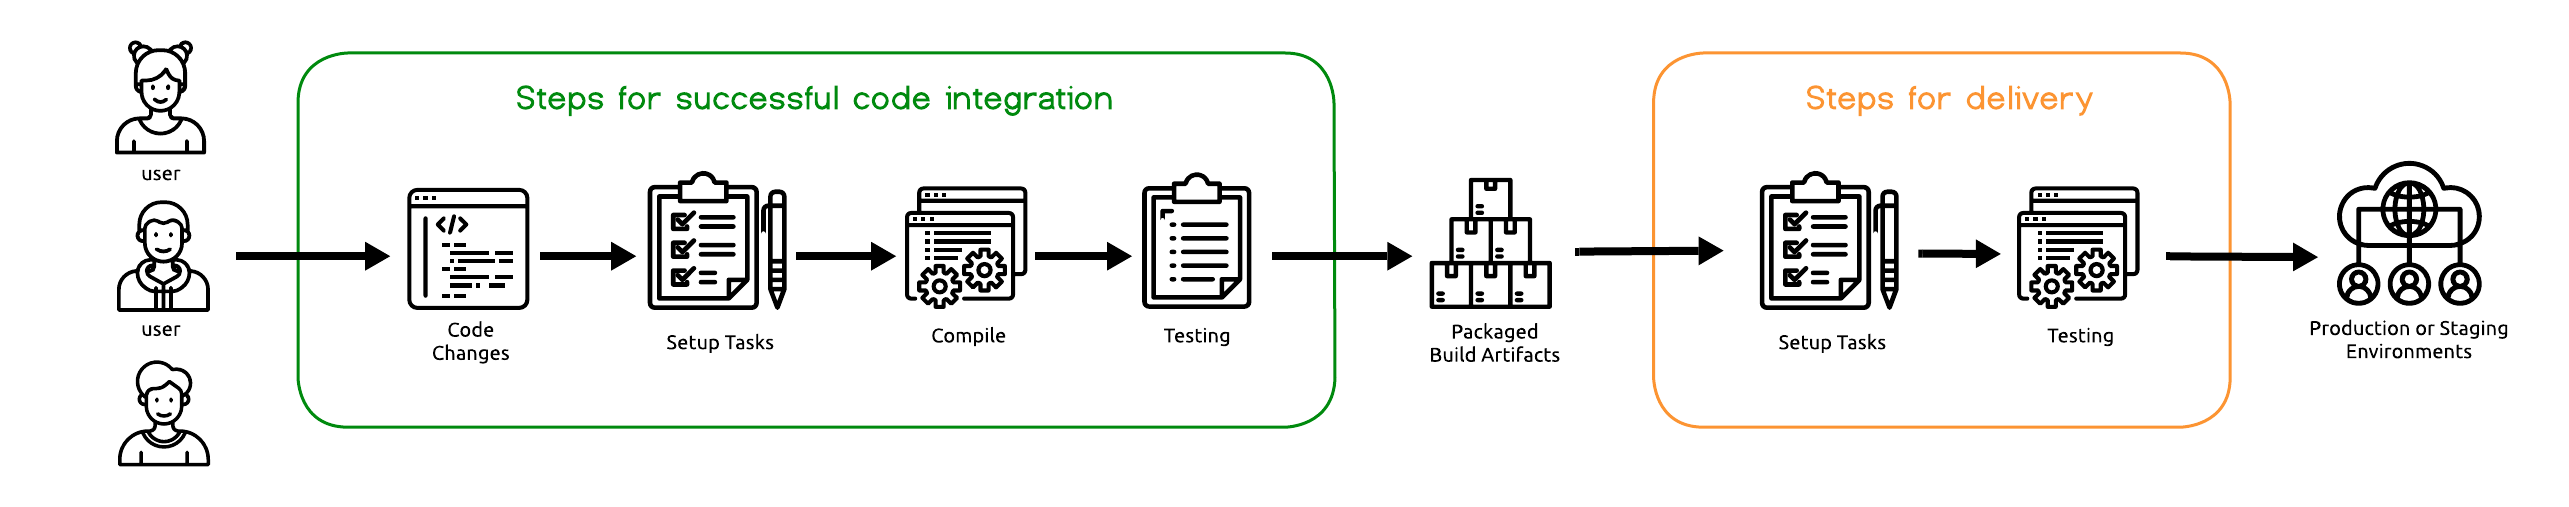
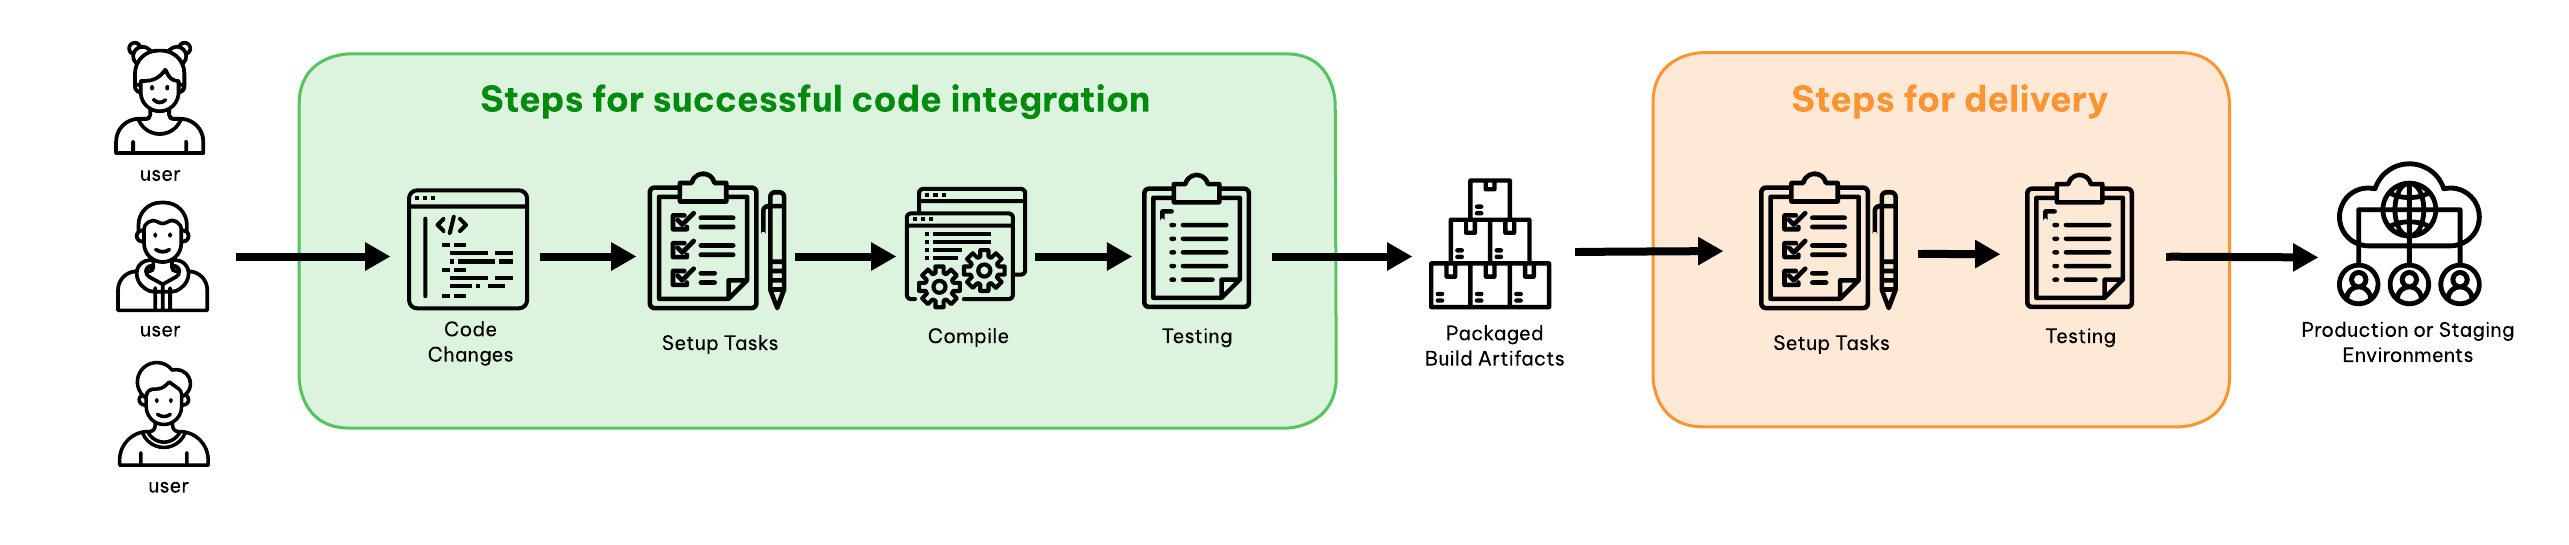
chore: add some more pngs and new holiness

diff --git a/src/components/pages/CaseStudyPage.tsx b/src/components/pages/CaseStudyPage.tsx
@@ -2,52 +2,46 @@ import { Link, useLocation } from "react-router-dom";
 import { useContext, useState, useEffect } from "react";
 import { CaseStudyContentContext } from "@/providers/CaseStudyContentProvider";
 import CaseStudySection from "./CaseStudySection";
-import {
-  Pagination,
-  PaginationContent,
-  PaginationItem,
-  PaginationLink,
-} from "@/components/ui/pagination";
-import {
-  Tooltip,
-  TooltipContent,
-  TooltipProvider,
-  TooltipTrigger,
-} from "@/components/ui/tooltip";
+// import {
+//   Pagination,
+//   PaginationContent,
+//   PaginationItem,
+//   PaginationLink,
+// } from "@/components/ui/pagination";
+// import {
+//   Tooltip,
+//   TooltipContent,
+//   TooltipProvider,
+//   TooltipTrigger,
+// } from "@/components/ui/tooltip";
 
 export default function CaseStudyPage() {
-  const { CaseStudy } = useContext(CaseStudyContentContext) ?? {};
-  const [activePage, setActivePage] = useState(CaseStudy?.headers[0]?.id ?? "");
-  const [activeSubSection, setActiveSubSection] = useState("");
-  console.log(CaseStudy, { activePage });
-  const location = useLocation();
+  const { headers, caseStudy } = useContext(CaseStudyContentContext) ?? {};
 
-  useEffect(() => {
-    const pathParts = location.pathname.split("#");
-    if (pathParts.length > 1) {
-      const sectionId = pathParts[1].split("-")[0];
-      setActivePage(sectionId);
-    }
-  }, [location]);
+  const content = caseStudy?.join("\n\n") ?? "";
+  console.log({ headers });
+  //   const location = useLocation();
+
+  //   useEffect(() => {
+  //     const pathParts = location.pathname.split("#");
+  //     if (pathParts.length > 1) {
+  //       const sectionId = pathParts[1].split("-")[0];
+  //       setActivePage(sectionId);
+  //     }
+  //   }, [location]);
 
   return (
     <>
       <div className="flex flex-row">
-       
         <main id="case-study-container" className="flex-1">
-          <CaseStudySection
-            markdown={
-              CaseStudy?.pages?.find(({ id }) => id === activePage)?.content ??
-              ""
-            }
-          />
+          <CaseStudySection markdown={content} />
         </main>
         <nav
           id="on-this-page"
           className="sticky top-[27vh] z-10 pl-5 pt-5 h-screen overflow-auto"
         >
           <h4 className="text-sm font-bold">On this page</h4>
-          <ul className="text-sm p-0">
+          {/* <ul className="text-sm p-0">
             {CaseStudy?.headers &&
               CaseStudy.headers
                 .find((header) => header.id === activePage)
@@ -66,10 +60,10 @@ export default function CaseStudyPage() {
                     </Link>
                   </li>
                 ))}
-          </ul>
+          </ul> */}
         </nav>
       </div>
-
+      {/* 
       <div>
         <TooltipProvider>
           <Pagination>
@@ -97,7 +91,7 @@ export default function CaseStudyPage() {
             </PaginationContent>
           </Pagination>
         </TooltipProvider>
-      </div>
+      </div> */}
     </>
   );
 }

diff --git a/src/providers/CaseStudyContentProvider.tsx b/src/providers/CaseStudyContentProvider.tsx
@@ -6,15 +6,22 @@ import implementation from "../assets/content/implementation.md";
 import futureWork from "../assets/content/future-work.md";
 import citations from "../assets/content/citations.md";
 
+interface Header {
+  level: string;
+  name: string;
+}
+
 interface CaseStudyContentContextProps {
-  CaseStudy: string[];
+  caseStudy: string[] | null;
+  headers: Header[] | null;
 }
 
 const CaseStudyContentContext =
   createContext<CaseStudyContentContextProps | null>(null);
 
 const CaseStudyContentProvider = ({ children }: { children: ReactNode }) => {
-  const [caseStudy, setCaseStudy] = useState<string[]>();
+  const [caseStudy, setCaseStudy] = useState<string[] | null>(null);
+  const [headers, setHeaders] = useState<Header[] | null>(null);
   const [loading, setLoading] = useState<boolean>(true);
   const [error, setError] = useState<string | null>(null);
 
@@ -29,9 +36,31 @@ const CaseStudyContentProvider = ({ children }: { children: ReactNode }) => {
           (await fetch(futureWork)).text(),
           (await fetch(citations)).text(),
         ]);
-        if (Array.isArray(content) && content.length) {
-          setCaseStudy(content);
-        }
+
+        const headers: Header[] = content.flatMap((md) => {
+          const headerRegex = /^(#{1,6})\s+(.*)$/gm;
+          const matches = [...md.matchAll(headerRegex)];
+          return matches.map((match) => ({
+            level: match[1].length.toString(),
+            name: match[2].trim().replace(/\*\*/g, ""),
+          }));
+        });
+
+        const groupedHeaders: Header[] = headers.reduce((acc, header) => {
+          if (header.level === "1") {
+            acc.push(header);
+          } else {
+            const lastHeader = acc[acc.length - 1];
+            if (!lastHeader.subheaders) {
+              lastHeader.subheaders = [];
+            }
+            lastHeader.subheaders.push(header);
+          }
+          return acc;
+        }, []);
+
+        setCaseStudy(content);
+        setHeaders(headers);
       } catch (err) {
         setError("Failed to load the case study markdown.");
         console.error(err);
@@ -52,11 +81,7 @@ const CaseStudyContentProvider = ({ children }: { children: ReactNode }) => {
   }
 
   return (
-    <CaseStudyContentContext.Provider
-      value={{
-        CaseStudy: caseStudy,
-      }}
-    >
+    <CaseStudyContentContext.Provider value={{ caseStudy, headers }}>
       {children}
     </CaseStudyContentContext.Provider>
   );

diff --git a/src/components/pages/HomePage.tsx b/src/components/pages/HomePage.tsx
@@ -1,6 +1,6 @@
 import { useNavigate } from "react-router-dom";
 import { Button } from "@/components/ui/button";
-import HisHoliness from "@/assets/harrier-bird-blue-shadow.png";
+import HisHoliness from "@/assets/harrier-big-blue-shadow.svg";
 import { FaBook } from "react-icons/fa";
 
 const HomePage = () => {
@@ -12,12 +12,12 @@ const HomePage = () => {
 
   return (
     <>
-      <div className="h-[36rem] flex flex-col text-center">
-        <h2 className="text-7xl font-semibold text-center mt-52 text-black italic">
+      <div className="h-[36rem] flex flex-col text-center bg-harrierblack">
+        <h2 className="text-7xl font-semibold text-center mt-48 text-white">
           Harrier
         </h2>
         <div>
-          <p className="text-2xl my-7">
+          <p className="text-2xl text-white my-7">
             an automated{" "}
             <span className="font-semibold text-secondary">
               self-hosted runner
@@ -25,7 +25,7 @@ const HomePage = () => {
             setup tool for{" "}
             <a
               href="https://github.com/features/actions"
-              className="underline hover:bg-senary"
+              className="hover:bg-teriary"
             >
               GitHub Actions
             </a>
@@ -33,20 +33,20 @@ const HomePage = () => {
           </p>
           <Button
             onClick={handleReadCaseStudyButtonClick}
-            variant="default"
-            className="inline-flex items-center space-x-2"
+            variant="test"
+            className="inline-flex items-center text-white p-6"
           >
             <span className="text-lg">Read Case Study</span>
-            <FaBook className="" />
+            {/* <FaBook className="" /> */}
           </Button>
         </div>
       </div>
       <div className="h-[36rem] flex flex-col text-center"></div>
-      <div className="h-[36rem] flex flex-col text-center bg-gradient-to-br from-primary to-secondary "></div>
+      {/* <div className="h-[36rem] flex flex-col text-center bg-gradient-to-br from-primary to-secondary "></div> */}
       <img
         src={HisHoliness}
         alt="Harrier Runner Logo PNG"
-        className="h-28 w-auto"
+        className="h-64 w-auto m-4"
       />
     </>
   );

diff --git a/src/components/ui/button.tsx b/src/components/ui/button.tsx
@@ -5,17 +5,19 @@ import { cva, type VariantProps } from "class-variance-authority";
 import { cn } from "@/lib/utils";
 
 const buttonVariants = cva(
-  "inline-flex items-center justify-center gap-2 whitespace-nowrap rounded-md text-sm font-medium ring-offset-background transition-colors focus-visible:outline-none focus-visible:ring-2 focus-visible:ring-ring focus-visible:ring-offset-2 disabled:pointer-events-none disabled:opacity-50 [&_svg]:pointer-events-none [&_svg]:size-4 [&_svg]:shrink-0",
+  "inline-flex items-center justify-center whitespace-nowrap rounded-md text-sm font-medium ring-offset-background transition-colors focus-visible:outline-none focus-visible:ring-2 focus-visible:ring-ring focus-visible:ring-offset-2 disabled:pointer-events-none disabled:opacity-50 [&_svg]:pointer-events-none [&_svg]:size-4 [&_svg]:shrink-0",
   {
     variants: {
       variant: {
-        default: "bg-primary text-primary-foreground hover:bg-primary/90",
+        default:
+          "bg-primary text-primary-foreground hover:bg-primary/90 border-2 border-primary",
         destructive:
           "bg-destructive text-destructive-foreground hover:bg-destructive/90",
         outline:
           "border border-input bg-background hover:bg-accent hover:text-accent-foreground",
         secondary:
           "bg-secondary text-secondary-foreground hover:bg-secondary/80",
+        test: "text-primary-foreground hover:bg-primary/90 border-2 border-primary",
         ghost: "hover:bg-accent hover:text-accent-foreground",
         link: "text-primary underline-offset-4 hover:underline",
       },

diff --git a/src/vite.d.ts b/src/vite.d.ts
@@ -1,19 +1,24 @@
 declare module "*.md" {
-  const markdown: string;
-  //   const attributes: Record<string, unknown>;
-
-  //   const toc: { level: string; content: string }[];
-
-  //   const html: string;
-
-  //   const raw: string;
-
-  //   const markdown: string;
-
-  //   import React from "react";
-  //   const ReactComponent: React.VFC;
-
-  //   // Modify below per your usage
-  //   export { attributes, markdown, toc, html, ReactComponent };
-  export { markdown };
+  const content: string;
+  export default content;
 }
+
+// declare module "*.md" {
+//   const markdown: string;
+//   //   const attributes: Record<string, unknown>;
+
+//   //   const toc: { level: string; content: string }[];
+
+//   //   const html: string;
+
+//   //   const raw: string;
+
+//   //   const markdown: string;
+
+//   //   import React from "react";
+//   //   const ReactComponent: React.VFC;
+
+//   //   // Modify below per your usage
+//   //   export { attributes, markdown, toc, html, ReactComponent };
+//   export { markdown };
+// }

diff --git a/src/components/TopNavBar.tsx b/src/components/TopNavBar.tsx
@@ -1,6 +1,7 @@
 import { Link } from "react-router-dom";
 import { Separator } from "@/components/ui/separator";
 import { FaGithub } from "react-icons/fa";
+import HisHoliness from "@/assets/harrier-big-blue-shadow.svg";
 import { useViewportWidth } from "@/hooks/useViewportWidth";
 
 export const TopNavBar = () => {
@@ -15,10 +16,13 @@ export const TopNavBar = () => {
       <div className="flex items-center justify-between bg-quaternary">
         <Link to="/">
           <img
-            src="/harrier-bird-blue-shadow.svg"
+            src={HisHoliness}
             alt="Harrier Runner Logo"
-            className="h-20 w-auto"
+            className="h-9 w-auto mt-5 mb-5 mx-3"
           />
+        </Link>
+        <Link to="/">
+          <h1 className="text-3xl font-semibold">Harrier</h1>
         </Link>
         <div className="flex items-center space-x-4 ml-auto mr-4 text-lg font-semibold">
           <Link to="/case-study" className=" hover:text-senary ">

diff --git a/src/index.css b/src/index.css
@@ -21,10 +21,14 @@
 }
 
 body {
-  font-family: "Be Vietnam Pro", sans-serif;
+  font-family: "Be Vietnam Pro", "Roboto", "Source Sans 3", sans-serif;
   margin: 0;
   min-width: 500px;
   min-height: 100vh;
+}
+
+#case-study-container {
+  font-family: "Roboto", "Source Sans 3", sans-serif;
 }
 
 button {

diff --git a/tailwind.config.js b/tailwind.config.js
@@ -11,7 +11,7 @@ module.exports = {
         quaternary: "#FFFFFF", // white
         quinary: "#E4E4E7", // grey
         senary: "#FEE01B", // harrier yellow
-        septenary: "", // harrier 
+        harrierblack: "#1C1D21", // harrier 
       },
     },
   },

diff --git a/src/assets/content/problem-domain.md b/src/assets/content/problem-domain.md
@@ -2,7 +2,7 @@
 
 ## GitHub Actions: A Powerful CI/CD Tool
 
-![Diagram](public/ci-cd-steps-boxes.png)
+![Diagram](src/assets/ci-steps-green-box.png)
 
 GitHub Actions (GHA) has emerged as a cornerstone in modern software development, empowering developers and teams to streamline their CI/CD workflows. With its widespread adoption, GHA is now a vital tool in the toolkit of over **57.8% of GitHub repositories**, solidifying its position as the leading CI/CD technology. In comparison, other tools like Travis CI, while significant, serve a smaller share of **38.8%** of repositories.
 
@@ -24,7 +24,7 @@ By automating the software development and release processes, CI/CD enables team
 - Reduced risk of failed deployments
 - Improved and faster user feedback
 
-![Diagram](public/ci-steps-green-box.png)
+![Diagram](src/assets/ci-cd-steps-boxes.png)
 
 CI/CD practices will remain central to software development for the foreseeable future. As software development grows increasingly complex, the automation and reliability CI/CD provides will continue to be indispensable for maintaining efficiency, minimizing errors, and enabling rapid iteration. These practices are not just trends; they are enduring pillars of the DevOps philosophy, ensuring developers can focus more on innovation and less on repetitive tasks.
 
@@ -128,7 +128,8 @@ There are many benefits to provisioning an alternative runner infrastructure for
 - Access to various network services and resources
 - Reliable up time
 - (Reaping all the cascading benefits of massive platform scale)
-
+- 
+![Diagram](src/assets/ci-cd-repeat-steps.png)
 As such, currently there are many paths to realizing an alternative cloud-hosted runner infrastructure for accelerating GHA CI builds that take advantage of these benefits. These solutions largely split into two categories: DIY and 3rd-party provisioned.
 
 For DIYers who have the knowledge and/or time and feel it is a good investment of resources to create an alternative GHA runner infrastructure by themselves to reap the benefits of faster CI builds, there is plenty of step-by-step guidance online that helps people provision an alternative runner infrastructure. (source: various show and tell medium articles).
